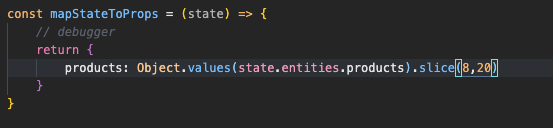
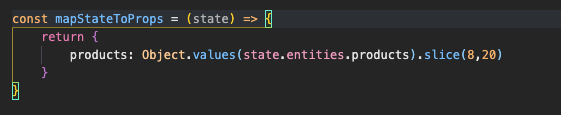
make error fix to seeding

Changed region(s): [[0.0, 0.0522, 0.9222, 0.887], [0.0615, 0.5739, 0.0922, 0.7043]]

diff --git a/frontend/components/products/product_index_container.jsx b/frontend/components/products/product_index_container.jsx
@@ -3,7 +3,6 @@ import ProductIndex from './product_index';
 import {fetchProducts} from '../../actions/product_actions';
 
 const mapStateToProps = (state) => {
-    // debugger
     return {
         products: Object.values(state.entities.products).slice(8,20)
     }

diff --git a/db/seeds.rb b/db/seeds.rb
@@ -90,7 +90,7 @@ jordan1_4 = Product.create!(
    name: "Air Jordan 1 Retro High OG 'Obsidian'", 
    brand: "Air Jordan", 
    release_date: "2019-08-31", 
-   colorway: "Sail/DarkMocha/Black", 
+   colorway: "Sail/Obsidian/University Blue", 
    technology: "Air", 
    category: "Lifestyle", 
    silhouette: "Air Jordan 1", 
@@ -166,7 +166,7 @@ kobe5_1 = Product.create!(
 
 kobe5_2 = Product.create!(
    name: "Zoom Kobe 5 Protro '5 Rings'", 
-   brand: "Air Jordan", 
+   brand: "Nike", 
    release_date: "2020-10-15", 
    colorway: "Concord/Midwest Gold", 
    technology: "Zoom Air", 
